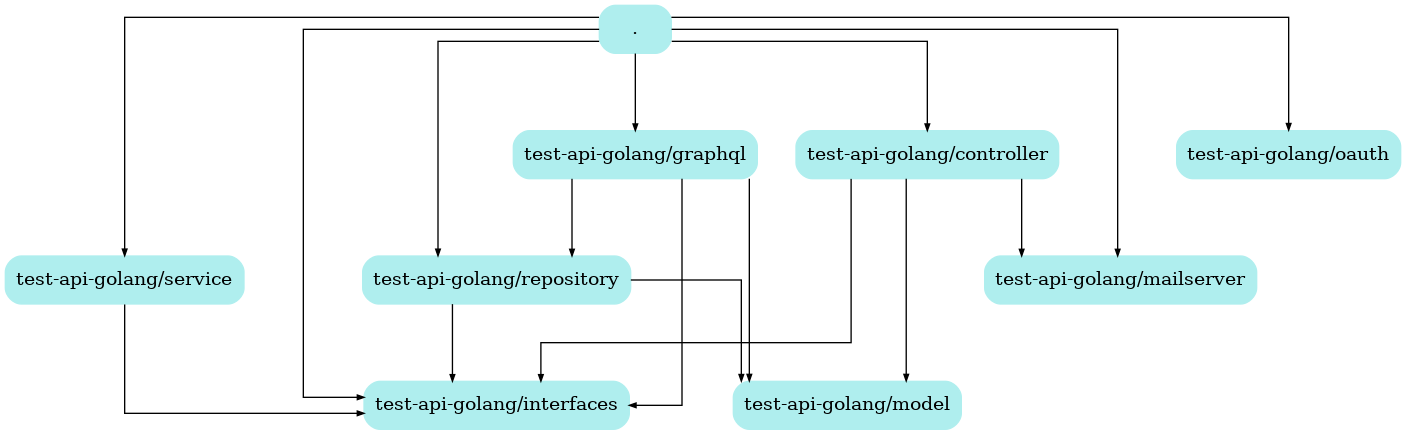
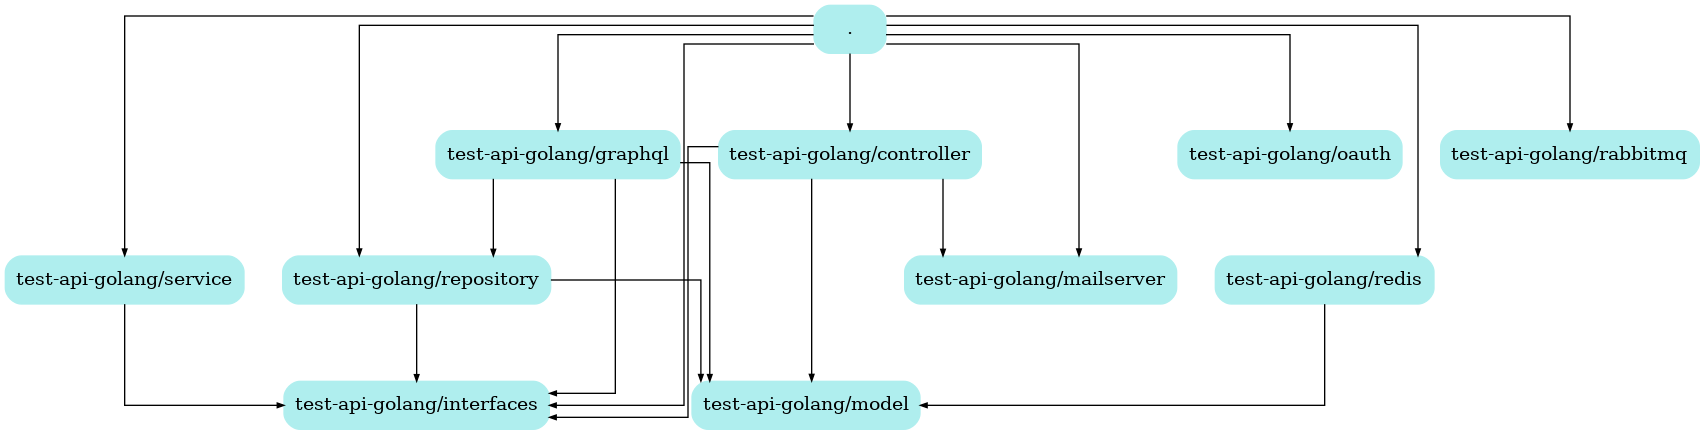
Add redis

diff --git a/redis/redis.go b/redis/redis.go
@@ -1,0 +1,55 @@
+package redis
+
+import (
+	"context"
+	"encoding/json"
+	"log"
+	"test-api-golang/model"
+	"time"
+
+	"github.com/go-redis/redis/v8"
+)
+
+type Cache struct {
+	Client     *redis.Client
+	expiration time.Duration
+}
+
+func NewCache(addr string, passw string, db int, expiration time.Duration) *Cache {
+	rdb := redis.NewClient(&redis.Options{
+		Addr:     addr,
+		Password: passw,
+		DB:       db,
+	})
+	pong, err := rdb.Ping(ctx).Result()
+	if err != nil {
+		panic(err)
+	}
+	log.Println("Connect to redis, ", pong)
+	return &Cache{Client: rdb}
+}
+
+var ctx = context.Background()
+
+func (c *Cache) Set(key string, value interface{}) error {
+	log.Println("Set to redis, id", key)
+	json, err := json.Marshal(value)
+	if err != nil {
+		return err
+	}
+	return c.Client.Set(ctx, key, json, c.expiration).Err()
+}
+
+func (c *Cache) Get(key string) (interface{}, error) {
+	log.Println("Get from redis, id", key)
+	value, err := c.Client.Get(ctx, key).Result()
+	if err != nil {
+		return nil, err
+	}
+	var product model.Product
+	err = json.Unmarshal([]byte(value), &product)
+	if err != nil {
+		panic(err)
+	}
+	return &product, nil
+}

diff --git a/controller/controller.go b/controller/controller.go
@@ -13,11 +13,13 @@ import (
 type CrudController struct {
 	interfaces.CrudControllerInterface
 	service interfaces.CrudServiceInterface
+	cache   interfaces.Cacher
 }
 
-func NewCrudController(service interfaces.CrudServiceInterface) *CrudController {
+func NewCrudController(service interfaces.CrudServiceInterface, cache interfaces.Cacher) *CrudController {
 	return &CrudController{
 		service: service,
+		cache:   cache,
 	}
 }
 
@@ -29,10 +31,14 @@ func (c CrudController) Get(w http.ResponseWriter, r *http.Request) {
 		GetError(err, w)
 		return
 	}
-	product, err := c.service.GetItem(id)
-	if err != nil {
-		GetError(err, w)
-		return
+	product, _ := c.cache.Get(strconv.Itoa(id))
+	if product == nil {
+		product, err = c.service.GetItem(id)
+		if err != nil {
+			GetError(err, w)
+			return
+		}
+		c.cache.Set(strconv.Itoa(id), product)
 	}
 	json.NewEncoder(w).Encode(product)
 }

diff --git a/servicecontainer.go b/servicecontainer.go
@@ -4,8 +4,14 @@ import (
 	"sync"
 	"test-api-golang/controller"
 	"test-api-golang/interfaces"
+	"test-api-golang/redis"
 	"test-api-golang/repository"
 	"test-api-golang/service"
+	"time"
+)
+
+const (
+	RedisRecordTimeToLiveSeconds = 5
 )
 
 type ServiceContainerInterface interface {
@@ -19,7 +25,8 @@ func (k *kernel) InjectCrudController() interfaces.CrudControllerInterface {
 	collection := repository.ConnectDB()
 	crudRepository := repository.NewCrudRepository(collection)
 	crudService := service.NewCrudService(crudRepository)
-	crudController := controller.NewCrudController(crudService)
+	redisCache := redis.NewCache("redis:6379", "", 0, time.Duration(RedisRecordTimeToLiveSeconds)*time.Second)
+	crudController := controller.NewCrudController(crudService, redisCache)
 	return crudController
 }
 

diff --git a/router.go b/router.go
@@ -32,6 +32,7 @@ func handleRequests(router *mux.Router, c interfaces.CrudControllerInterface, go
 	router.HandleFunc("/authorize", googleAuth.Authorize).Methods("GET")
 	router.HandleFunc("/oauth2callback", googleAuth.Oauth2callback).Methods("GET")
 	router.Handle("/check", googleAuth.AuthMiddleware(http.HandlerFunc(googleAuth.Check))).Methods("GET")
+	router.HandleFunc("/redis/{id}", c.Get).Methods("GET")
 }
 
 type router struct{}

diff --git a/interfaces/interfaces.go b/interfaces/interfaces.go
@@ -35,3 +35,8 @@ type ListParametersInterface interface{}
 type GrpcClientControllerInterface interface {
 	SendMail(w http.ResponseWriter, r *http.Request)
 }
+
+type Cacher interface {
+	Get(key string) (interface{}, error)
+	Set(key string, value interface{}) error
+}

diff --git a/README.md b/README.md
@@ -69,7 +69,7 @@ docker-compose up
 ~/go/bin/godepgraph -novendor -s  -p github.com,go.mongodb.org,golang.org,google.golang.org . | dot -Tpng -o godepgraph.png
 ```
 
-![Зависимость пакетов приложения](godepgraph.png?raw=true "Dependencies graph")
+![Зависимость пакетов приложения](godepgraph.png)
 
 ## GraphQL
 
@@ -176,4 +176,16 @@ curl -X POST http://localhost:8080/rabbitmq -d '{"link":"https://www.xsolla.com1
 
 ```(bash)
 docker run --rm -it -p 15672:15672 -p 5672:5672 rabbitmq:3-management
+```
+
+## NoSQL
+
+В тестовом задании используются такие нереляционные хранилища данных, как `MongoDB` и `Redis`, оба устанавливаются из docker-контейнеров. `MongoDB` выбрано поскольку позволяет легко сохранять и извлекать данные в формате `json` для HTTP-запросов, а также позволяет безболезненно менять схему данных, в отличии от SQL-решений. `Redis` выбран для кеширования данных, к которым часто обращаются клиенты с GET-запроcами, данные хранятся в оперативной памяти, а не читаются с диска, поэтому время ответа сокращается.
+
+Для тестирования `Redis` нужно запустить приложение командой `docker-compose up` и выполнить следующие GET-запросы. Если в redis-хранилище отсутсвует запись с идентификатором, передаваемом в GET-запросе, то приложение извлекает данные из `MongoDB` и сохраняет запись ключ-значение в `Redis`. Время хранения записи определяется константой `RedisRecordTimeToLiveSeconds` (5 секунд). Если запись с данным ключом уже есть в `Redis` - его и возвращаем клиенту, а к `MongoDB` не обращаемся. 
+
+```(bash)
+curl http://localhost:8080/redis/1
+curl http://localhost:8080/redis/1
+curl http://localhost:8080/redis/2
 ```
